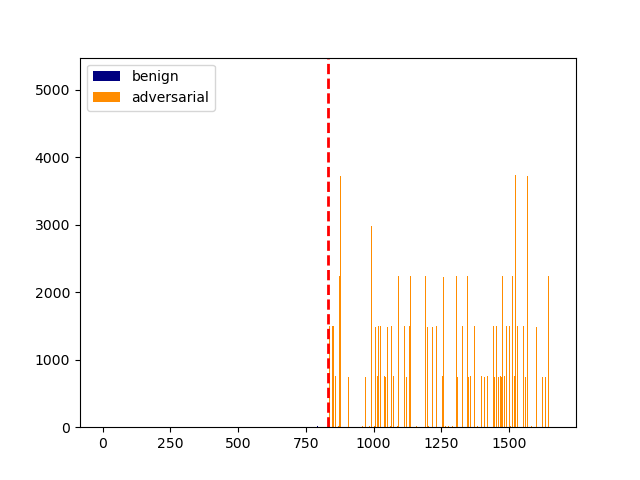
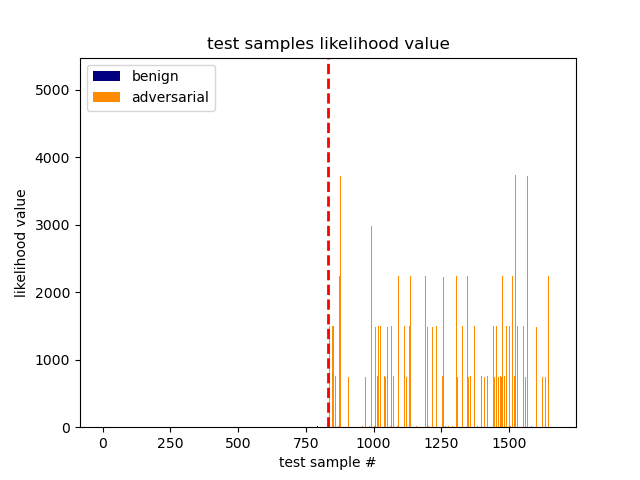
add result plot

diff --git a/data/plot.py b/data/plot.py
@@ -6,9 +6,15 @@ import os
 
 
 def main(data_dir_name, roc_graph_file_name, precision_recall_graph_file_name, histogram_file_name):
-    Y_score = np.load(os.path.join(data_dir_name, 'prediction.npy'))
+    Y_score = np.load(os.path.join(data_dir_name, 'prediction_pca_knn.npy'))
     Y_score_benign = Y_score[:832]
     Y_score_adv = Y_score[832:]
+
+    #Y_score_adv = np.load(os.path.join(data_dir_name, 'test_adv_sigmoid.npy'))
+    #Y_score_adv = np.absolute(Y_score_adv)
+    #Y_score_benign = np.load(os.path.join(data_dir_name, 'test_benign_sigmoid.npy'))
+    #Y_score_benign = np.absolute(Y_score_benign)
+    #Y_score = Y_score_benign.tolist() + Y_score_adv.tolist()
     Y_true = ([0] * len(Y_score_benign)) + ([1] * len(Y_score_adv))
 
     lw = 2
@@ -47,6 +53,9 @@ def main(data_dir_name, roc_graph_file_name, precision_recall_graph_file_name, h
     plt.clf()
 
     #plt.figure(figsize=(50, 50))
+    plt.xlabel('test sample #')
+    plt.ylabel('likelihood value')
+    plt.title('test samples likelihood value')
     plt.axvline(x=832, linewidth=lw, color='r', linestyle='--')
     plt.bar(np.arange(len(Y_score_benign)), Y_score_benign, color='navy', label='benign', align='edge')
     plt.bar(np.arange(len(Y_score_adv)) + len(Y_score_benign), Y_score_adv, color='darkorange', label='adversarial',
@@ -57,8 +66,4 @@ def main(data_dir_name, roc_graph_file_name, precision_recall_graph_file_name, h
     plt.clf()
 
 if __name__ == '__main__':
-    if len(sys.argv) < 2:
-        #print('Usage: detector_training.py <DIR_NAME>')
-        exit()
-    dir_name = sys.argv[1]
     main('./', 'roc_graph_test.png', 'precision_recall_graph_test.png', 'prediction_score_histogram.png')
